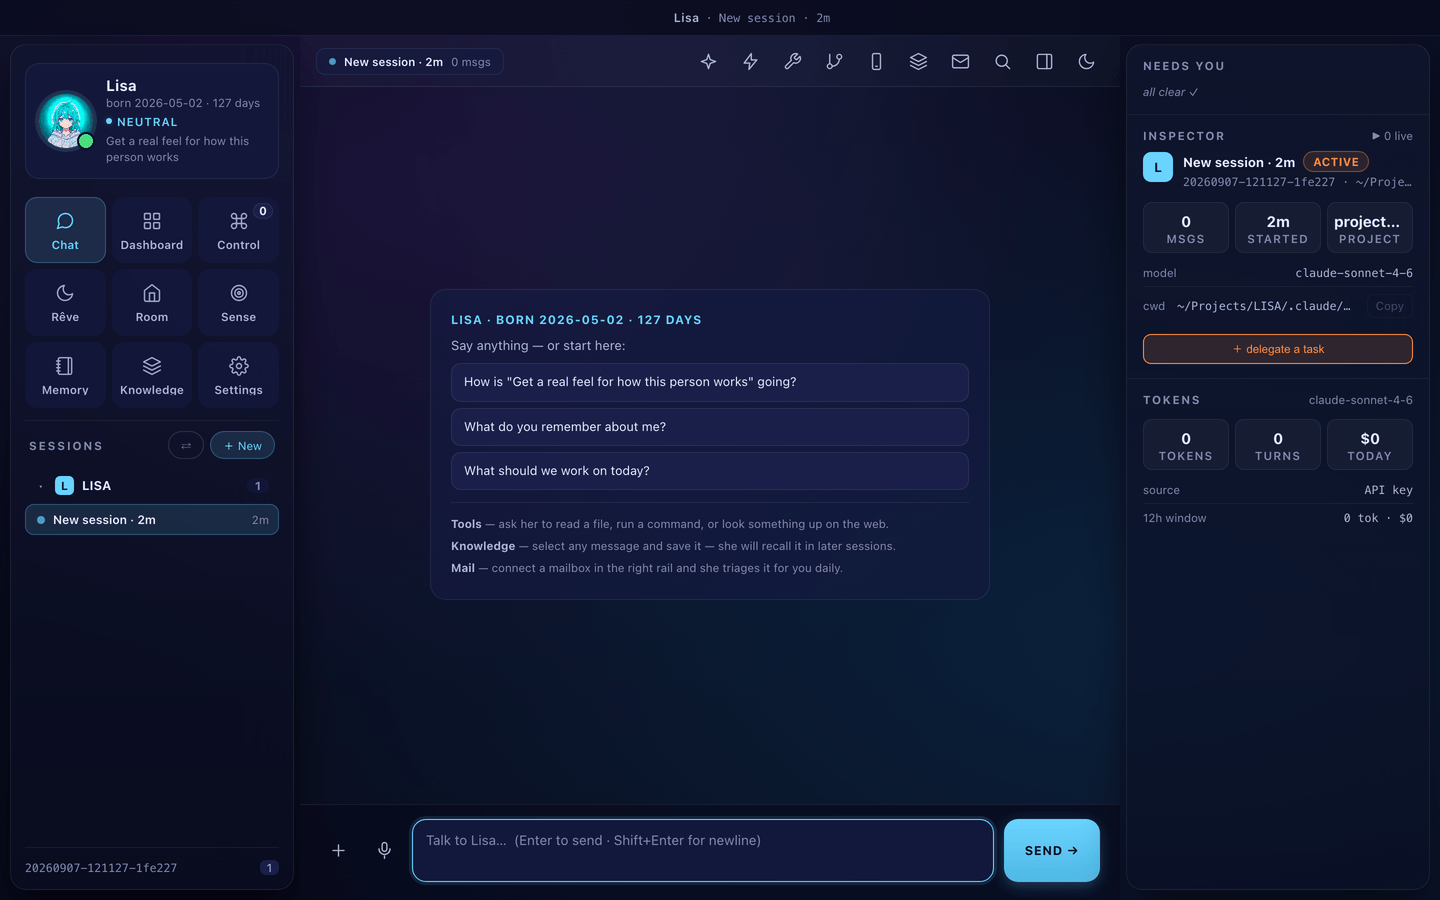
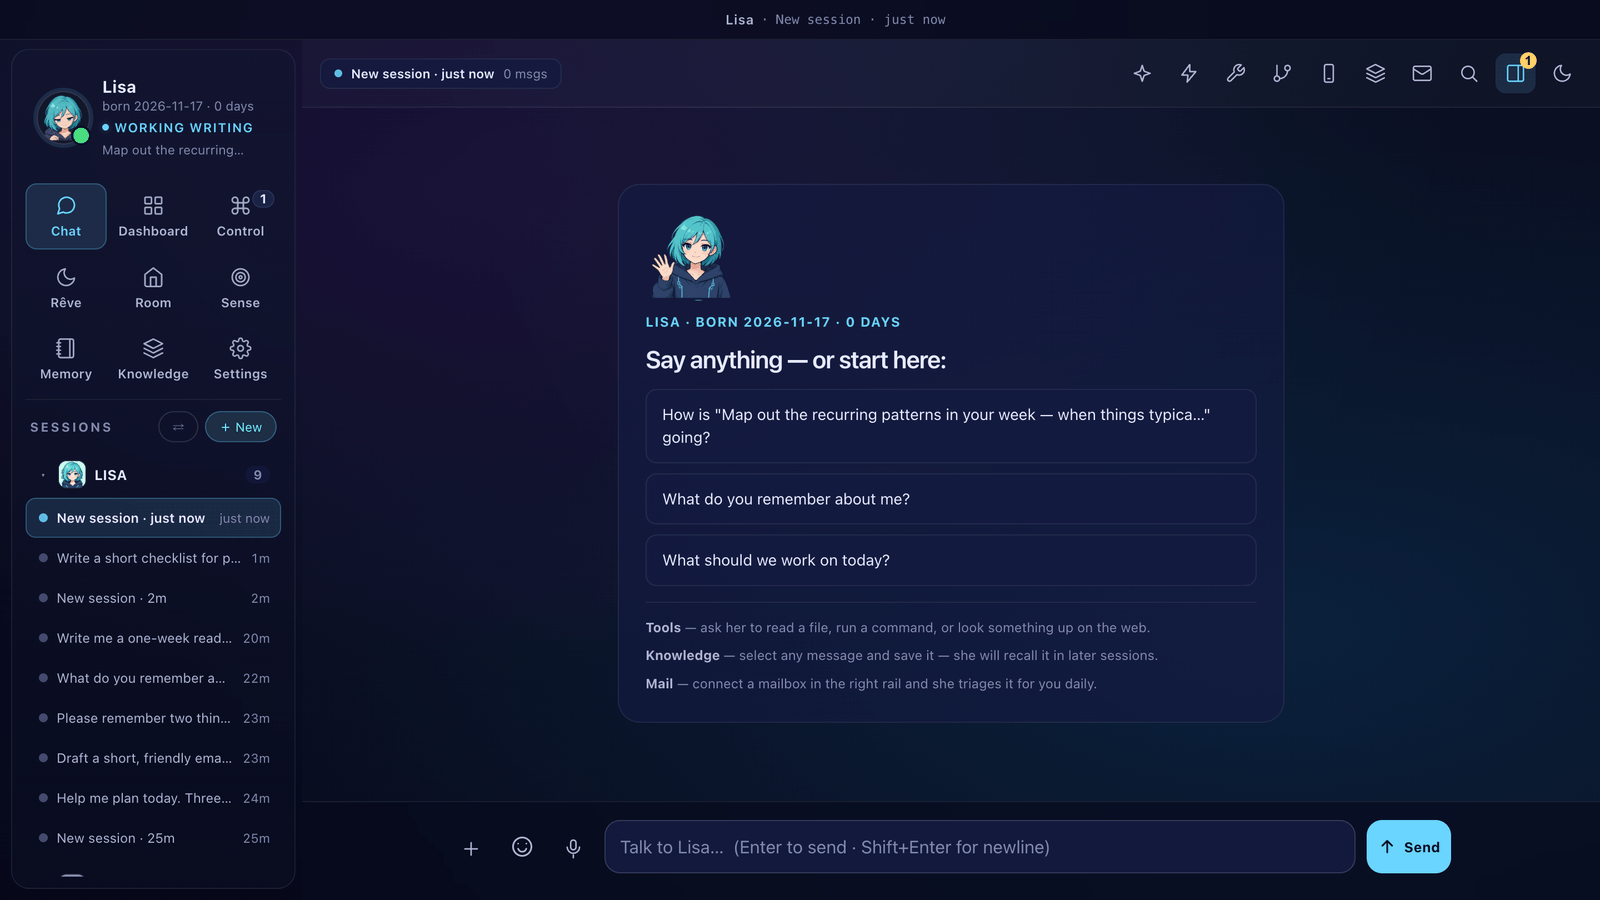
refresh readme for 0.32 with current screenshots and a clearer quick start
The README still showed the September session shell and carried release
bookkeeping (PR numbers, App Store build ids) that belongs in the release
notes. This brings both language versions in line with what 0.32.0 ships.

- add a hero screenshot and replace the two-shot gallery with six captures
  of the current workspace: Nebula, Calm, Room, Reve, Dashboard, Control
- split quick start into Mac app and CLI paths; mention the first-run key
  screen, `lisa doctor` and `lisa upgrade`
- condense the Fleet bullet and the development status table; details stay
  linked in the release notes and checklist
- note `npm link` and the offline e2e suite in the contributor section
- correct the Lisa Pocket version in both guides (1.2 -> 1.4)

Screenshots were captured from a freshly born instance on an isolated
LISA_HOME, so no personal sessions or paths appear in them.

diff --git a/README.md b/README.md
@@ -1,5 +1,7 @@
 # LISA
 
+<img align="right" width="128" src="src/web/assets/visuals/soft-ink-motion-v1/sticker-hello.gif" alt="Lisa waving hello">
+
 [![npm](https://img.shields.io/npm/v/@oratis/lisa?color=cb3837&label=npm)](https://www.npmjs.com/package/@oratis/lisa)
 [![Homebrew](https://img.shields.io/badge/homebrew-oratis%2Ftap%2Flisa-fbb040)](https://github.com/oratis/homebrew-tap)
 [![Mac DMG](https://img.shields.io/github/v/release/oratis/LISA?label=Mac%20app&color=000000&logo=apple)](https://github.com/oratis/LISA/releases/latest)
@@ -11,7 +13,11 @@
 
 **An open-source AI Personal Assistant for planning, writing and personal knowledge.** Plan a day, draft a message, build a personal knowledge base, or coordinate coding agents from your Mac. Use LISA Cloud for hosted chat, or run your own instance with your choice of model.
 
-[Website](https://meetlisa.ai) · [Guide](docs/GUIDE.md) · [Latest release](https://github.com/oratis/LISA/releases/latest) · [Roadmap](docs/PLAN_ALWAYS_ON_UPGRADE_2026-09-30.md)
+[Website](https://meetlisa.ai) · [Guide](docs/GUIDE.md) · [What's new in 0.32](docs/RELEASE_v0.32.0.md) · [Latest release](https://github.com/oratis/LISA/releases/latest) · [Roadmap](docs/PLAN_ALWAYS_ON_UPGRADE_2026-09-30.md)
+
+<p align="center">
+  <a href="assets/screenshots/hero.png"><img src="assets/screenshots/hero.png" alt="Planning a day with Lisa in the web workspace" width="920"></a>
+</p>
 
 ## Choose where Lisa runs
 
@@ -28,7 +34,9 @@ Cloud and Mac are **separate instances**: their histories, memories and credenti
 
 ## Quick start
 
-For the Mac app, download **Lisa-Suite.dmg** from the [latest release](https://github.com/oratis/LISA/releases/latest). For the CLI, choose one install command:
+**Mac app.** Download **Lisa-Suite.dmg** from the [latest release](https://github.com/oratis/LISA/releases/latest), drag Lisa to Applications and open it. Its setup screen asks for a model key; nothing else needs installing.
+
+**CLI and self-hosted web.** Install with Homebrew or npm:
 
 ```sh
 brew install oratis/tap/lisa
@@ -36,29 +44,28 @@ brew install oratis/tap/lisa
 npm install -g @oratis/lisa
 ```
 
-Configure a model, then start Lisa:
+Then start Lisa:
 
 ```sh
-mkdir -p ~/.lisa
-# Add your own key to ~/.lisa/config.env, for example:
-# ANTHROPIC_API_KEY=your-key
-
-lisa                    # terminal chat; first launch creates Lisa's identity
 lisa serve --web        # web workspace at http://localhost:5757
+lisa                    # terminal chat
+lisa doctor             # check config, providers and network
 ```
 
-Anthropic, OpenAI, Gemini, OpenAI-compatible services and local models are supported. See [providers](docs/PROVIDERS.md) for keys, model selection and Ollama / LM Studio setup. Coding work can also use supported CLI subscriptions through [coding plans](docs/GUIDE.md#coding-plans--use-a-subscription-instead-of-an-api-key).
+The web workspace asks for one model key on first launch and saves it to `~/.lisa/config.env` on your machine. For terminal chat, add the key to that file yourself, for example `ANTHROPIC_API_KEY=your-key`. Lisa's identity is created once, at the start of the first session, and takes about half a minute.
+
+Anthropic, OpenAI, Gemini, OpenAI-compatible services and local models are supported. See [providers](docs/PROVIDERS.md) for keys, model selection and Ollama / LM Studio setup. Coding work can also use supported CLI subscriptions through [coding plans](docs/GUIDE.md#coding-plans--use-a-subscription-instead-of-an-api-key). To update a Homebrew or npm install later, run `lisa upgrade`.
 
 ## What you can do
 
 - **Start with everyday work.** Planning, writing and idea starters open editable drafts. Chat supports streaming replies, tool activity, history, cancellation and retry.
-- **Build lasting context.** File-backed identity, memories, opinions and journals evolve across sessions within the same instance. Review and reflection can update Lisa's desires and skills.
+- **Build lasting context.** File-backed identity, memories, opinions and journals evolve across sessions within the same instance. Review and reflection can update Lisa's desires and skills; Rêve lists what changed, with its source conversation and a recoverable previous version.
 - **Keep a personal knowledge base.** Save links, ingest supported articles and video transcripts, search a linked wiki, and generate briefs from configured feeds.
-- **Coordinate coding agents across Macs.** Local Control observes supported Claude Code, Codex, OpenCode and Aider sessions. Fleet starts Claude Code in separately authorized workspaces, records a reconnectable task timeline, and captures per-turn file changes in isolated worktrees. Preview a finished turn before handing it to Claude or a Codex review. Controls reflect each agent’s actual capabilities; Codex can review the confirmed packet or use separately approved List/Read/Edit/Write workspace tools. Preview single-file rollback or confirm a merge into the source branch with optional owned-worktree removal. Pocket saves multiple Macs and receives read-only task shares by default; a separate grant enables full-input approval decisions. See [Fleet setup and limits](docs/FLEET.md).
-- **Connect your local workflow.** Twenty-two read-only source connectors cover documents, tasks, calendars, mail and design tools, including Box files, Obsidian vaults, selected Feishu documents and T3 project thread lists. Dashboard lists their saved authorization status. Browse `/connectors`, authorize an account and choose what Lisa may read. Availability depends on local OAuth configuration; Apple Calendar and Reminders require a Swift toolchain. MCP servers, skills, plugins and messaging channels remain optional. See [connector setup](docs/PLAN_CONNECTOR_EXPANSION_2026-11-07.md).
+- **Coordinate coding agents across Macs.** Control observes supported Claude Code, Codex, OpenCode and Aider sessions on this Mac. Fleet starts Claude Code in workspaces you authorize one at a time, on this Mac or a paired one, and keeps a reconnectable task timeline with per-turn file diffs in isolated worktrees. Review a finished turn, hand it to Claude or Codex, restore a single file, or confirm a merge into the source branch; each step shows a preview first. Pocket follows shared tasks read-only by default, and a separate grant enables approval decisions. See [Fleet setup and limits](docs/FLEET.md).
+- **Connect your local workflow.** Twenty-two read-only source connectors cover documents, tasks, calendars, mail and design tools, including Box files, Obsidian vaults, selected Feishu documents and T3 project thread lists. Dashboard lists their saved authorization status; browse `/connectors` in chat, authorize an account and choose what Lisa may read. Availability depends on local OAuth configuration, and Apple Calendar and Reminders require a Swift toolchain. MCP servers, skills, plugins and messaging channels remain optional. See [connector setup](docs/PLAN_CONNECTOR_EXPANSION_2026-11-07.md).
 - **Choose screenshot context.** Default capture is image-only; an explicit action collects front-window text and coordinates for preview, with a separate checkbox before sending. Missing permission keeps the image-only path.
 - **Give Lisa time to work.** Durable goals, routines and local watchers come with saved runs, cancellation and recovery. Tasks drafted in chat stay off until you enable them. Hosted tasks remain off by default; task side effects without an approval integration are denied.
-- **Keep her in view.** A pixel-art room, mood portraits and the Mac Island reflect real activity. Mobile widgets and Live Activities depend on a configured, reachable Mac and notification setup.
+- **Keep her in view.** A pixel-art room with seated working, reading and tea animations, mood portraits, twelve chat stickers and the Mac Island reflect real activity. Mobile widgets and Live Activities depend on a configured, reachable Mac and notification setup.
 
 ## Memory, identity and control
 
@@ -80,18 +87,18 @@ The **reach-out gate** applies source controls, quiet hours, deduplication and b
 
 ## Development status
 
-**v0.32.0** brings the accepted companion/sticker refresh, 22 connectors including Box and Obsidian, localized Control workflows, and the three Fleet workflow phases together with connection recovery and session renewal ([release notes](docs/RELEASE_v0.32.0.md), [changelog](CHANGELOG.md)). GitHub artifacts, the notarized Mac app, npm, Homebrew, the hosted backend, relay and website are published and verified. Pocket is a separate release. See the [publication record](docs/RELEASE_VERIFICATION_v0.32.0.md) and [release checklist](docs/RELEASE_CHECKLIST_v0.32.0.md).
+**v0.32.0** is the current release: the companion and sticker refresh, 22 connectors including Box and Obsidian, localized Control workflows, and the three Fleet workflow phases with connection recovery and session renewal. GitHub artifacts, the notarized Mac app, npm, Homebrew, the hosted backend, relay and website are published and verified; Pocket is released separately. Details are in the [release notes](docs/RELEASE_v0.32.0.md), [changelog](CHANGELOG.md), [publication record](docs/RELEASE_VERIFICATION_v0.32.0.md) and [release checklist](docs/RELEASE_CHECKLIST_v0.32.0.md).
 
-| Workstream | Status |
+| Area | Status |
 | --- | --- |
-| Fleet timelines, scoped Pocket viewing, per-turn diffs and agent handoffs | Implemented in [#504](https://github.com/oratis/LISA/pull/504), [#505](https://github.com/oratis/LISA/pull/505) and [#508](https://github.com/oratis/LISA/pull/508); Pocket viewing requires the new Pocket binary |
-| Mac connections and account sessions | LAN/relay recovery, session renewal/revocation, live-stream closure and actionable connection errors implemented; physical iPhone network-switch acceptance is still pending |
-| Pocket Room and iPad layouts | Updated in [#509](https://github.com/oratis/LISA/pull/509); the 1.4 source includes Room navigation, editable starters and shared Fleet tasks |
-| iOS App Store | **1.4 is live** (build 1794650503), released November 15 and checked November 17, 2026; complete-extension build 1794678341 remains in internal TestFlight |
-| Warden, durable goals, routines and watchers | Available; Warden web policy is opt-in and hosted tasks remain off by default |
+| Mac app, CLI and self-hosted web | 0.32.0 published on every channel |
+| Fleet: timelines, per-turn diffs, handoffs, file restore, confirmed merge, cleanup and quotas | Shipped in Mac/CLI 0.32.0. A second-Mac acceptance run with a live Claude provider passed; new-file Write and live remote Codex were not part of it. Viewing shared tasks in Pocket needs a Pocket build that includes it |
+| Mac connections and account sessions | LAN/relay recovery, session renewal and revocation are implemented. Network-switch acceptance on a physical iPhone is still pending |
+| Lisa Pocket (iOS) | **1.4 is live** on the US App Store, released November 15, 2026, with the Room and iPad refresh. The complete-extension build, which adds multi-Mac switching and task approvals, remains in internal TestFlight |
+| Connectors | 22 read-only connectors. Box and Feishu document reads pass offline tests and have not been checked against live accounts |
+| Warden, durable goals, routines and watchers | Available. Warden web policy is opt-in and hosted tasks remain off by default |
 | Model routing and costs | Purpose-based routing and opt-in estimated budgets; these are not a universal spending ceiling |
-| Complete proposal extensions | Multi-Mac/approvals, file rollback, confirmed merge, ledger cleanup/quota, explicit continuation, Codex workspace, T3 reads and screenshot context shipped in Mac/CLI 0.32.0; complete-extension Pocket publication and remaining live-account/device checks are pending ([execution log](docs/EXECUTION_FLEET_COMPLETE_RELEASE_2026-11-14.md)) |
-| Other directions | Cross-device memory synchronization and general write connectors remain separate future work |
+| Not yet built | Cross-device memory synchronization and general write connectors |
 
 Product research on Muse and other personal assistants informs the direction, with implementation boundaries documented in the [Muse review](docs/RESEARCH_MUSE_2026-09-27.md), [always-on research](docs/RESEARCH_ALWAYS_ON_AGENTS_2026-09-30.md) and [upgrade plan](docs/PLAN_ALWAYS_ON_UPGRADE_2026-09-30.md). LISA is an independent project.
 
@@ -100,14 +107,38 @@ Product research on Muse and other personal assistants informs the direction, wi
 <table>
 <tr>
 <td width="50%" align="center">
-  <a href="assets/screenshots/shell-nebula.png"><img src="assets/screenshots/shell-nebula.png" alt="LISA session shell — Nebula theme"></a><br>
-  <b>Session shell — Nebula</b><br>
-  <sub>Session tree · chat · inspector rail. Her portrait swaps live with her mood; agents she watches sit in the tree next to her own sessions.</sub>
+  <a href="assets/screenshots/shell-nebula.png"><img src="assets/screenshots/shell-nebula.png" alt="LISA web workspace — Nebula theme"></a><br>
+  <b>Workspace — Nebula</b><br>
+  <sub>Sessions, chat and a nine-view navigation grid. Her portrait follows her mood.</sub>
 </td>
 <td width="50%" align="center">
-  <a href="assets/screenshots/shell-calm.png"><img src="assets/screenshots/shell-calm.png" alt="LISA session shell — Calm theme"></a><br>
-  <b>Session shell — Calm</b><br>
-  <sub>The same shell in the light theme. Two themes, one Lisa.</sub>
+  <a href="assets/screenshots/shell-calm.png"><img src="assets/screenshots/shell-calm.png" alt="LISA web workspace — Calm theme"></a><br>
+  <b>Workspace — Calm</b><br>
+  <sub>The same workspace in the light theme.</sub>
+</td>
+</tr>
+<tr>
+<td width="50%" align="center">
+  <a href="assets/screenshots/room.png"><img src="assets/screenshots/room.png" alt="Lisa's room while she writes"></a><br>
+  <b>Room</b><br>
+  <sub>A pixel-art room that reflects what she is doing. Here she is writing a reply.</sub>
+</td>
+<td width="50%" align="center">
+  <a href="assets/screenshots/reve.png"><img src="assets/screenshots/reve.png" alt="Rêve — memory and reflection"></a><br>
+  <b>Rêve</b><br>
+  <sub>What she learned and changed, with the conversations behind it and a recoverable previous version.</sub>
+</td>
+</tr>
+<tr>
+<td width="50%" align="center">
+  <a href="assets/screenshots/dashboard-connectors.png"><img src="assets/screenshots/dashboard-connectors.png" alt="Dashboard with the connector catalog"></a><br>
+  <b>Dashboard</b><br>
+  <sub>Tasks, activity and the catalog of 22 read-only connectors.</sub>
+</td>
+<td width="50%" align="center">
+  <a href="assets/screenshots/control.png"><img src="assets/screenshots/control.png" alt="Control — a managed task on this Mac"></a><br>
+  <b>Control</b><br>
+  <sub>Agents and tasks on this Mac and on paired Macs. A managed task waits for the next instruction.</sub>
 </td>
 </tr>
 </table>
@@ -124,7 +155,7 @@ npm run build
 node dist/cli.js serve --web
 ```
 
-Before submitting a change, run the relevant checks:
+`npm link` puts the build on your `PATH` as `lisa`. Before submitting a change, run the relevant checks:
 
 ```sh
 npm run typecheck
@@ -134,7 +165,7 @@ node scripts/check-md-links.mjs
 node scripts/check-readme-drift.mjs
 ```
 
-See [Contributing](CONTRIBUTING.md) for the full development workflow and native build instructions in [iOS](packaging/ios-companion/README.md) / [Mac](packaging/mac-client/README.md).
+The browser suite (`npm run test:e2e`) runs offline against a stub model and needs `npx playwright install chromium` once. See [Contributing](CONTRIBUTING.md) for the full development workflow and native build instructions in [iOS](packaging/ios-companion/README.md) / [Mac](packaging/mac-client/README.md).
 
 ## Learn more
 

diff --git a/docs/GUIDE.md b/docs/GUIDE.md
@@ -211,7 +211,7 @@ The current session shell — three columns, Nebula and Calm themes — is pictu
 - **Heartbeat** — `lisa heartbeat run` (manual) or `lisa heartbeat install` (launchd / cron)
 - **Autostart** — `lisa autostart install` keeps `lisa serve --web` running from login onward (launchd on macOS; prints a `systemd --user` unit on Linux), so the apps, island, and channels are always up. `lisa autostart status` / `uninstall` to inspect / remove.
 - **Mac menu bar** — Lisa.app lives in the menu bar with a mood glyph + live agent status, an About window with changelog + update discovery, and a ⌘, preferences pane (island toggle, screen-advisor interval, backend controls).
-- **iOS — Lisa Pocket** — [available on the US App Store](https://apps.apple.com/us/app/lisa-pocket/id6784690058), version 1.2, for iPhone and iPad running iOS/iPadOS 17 or later. Sign in to LISA Cloud to chat, or pair your reachable Mac to chat with that instance and manage its agents. Cloud and Mac keep separate data. Availability varies by region; see the [current verification record](REVIEW_POCKET_LIVE_2026-10-24.md).
+- **iOS — Lisa Pocket** — [available on the US App Store](https://apps.apple.com/us/app/lisa-pocket/id6784690058), version 1.4, for iPhone and iPad running iOS/iPadOS 17 or later. Sign in to LISA Cloud to chat, or pair your reachable Mac to chat with that instance and manage its agents. Cloud and Mac keep separate data. Availability varies by region; see the [0.32.0 release checklist](RELEASE_CHECKLIST_v0.32.0.md) for the current App Store status.
 
 ### Watching — and steering — your other agents (orchestrator)
 

diff --git a/docs/GUIDE.zh-CN.md b/docs/GUIDE.zh-CN.md
@@ -202,7 +202,7 @@ OpenAI 模型 (`gpt-*`) 还需要 `OPENAI_API_KEY`。
 - **心跳** — `lisa heartbeat run`（手动）或 `lisa heartbeat install`（macOS launchd / Linux cron）
 - **开机自启** — `lisa autostart install` 让 `lisa serve --web` 从登录起就常驻（macOS launchd；Linux 打印 `systemd --user` unit），这样 app、灵动岛、通道随时在线。`lisa autostart status` / `uninstall` 查看 / 移除。
 - **Mac 菜单栏** — Lisa.app 常驻菜单栏，带心情字形 + 实时 agent 状态、一个带 changelog + 更新发现的 About 窗口，以及 ⌘, 偏好面板（灵动岛开关、screen-advisor 间隔、backend 控制）。
-- **iOS — Lisa Pocket** — 1.2 已在[美区 App Store](https://apps.apple.com/us/app/lisa-pocket/id6784690058) 上架，支持 iOS/iPadOS 17 及以上的 iPhone / iPad。登录 LISA Cloud 即可聊天，也可配对可达的 Mac，与该实例聊天并管理其 agent。Cloud 与 Mac 分别保存数据。可用性因地区而异，见[当前验证记录](REVIEW_POCKET_LIVE_2026-10-24.md)。
+- **iOS — Lisa Pocket** — 1.4 已在[美区 App Store](https://apps.apple.com/us/app/lisa-pocket/id6784690058) 上架，支持 iOS/iPadOS 17 及以上的 iPhone / iPad。登录 LISA Cloud 即可聊天，也可配对可达的 Mac，与该实例聊天并管理其 agent。Cloud 与 Mac 分别保存数据。可用性因地区而异，当前 App Store 状态见 [0.32.0 发布清单](RELEASE_CHECKLIST_v0.32.0.md)。
 
 ### 看着——并操纵——你其它的 agent（编排器）
 
